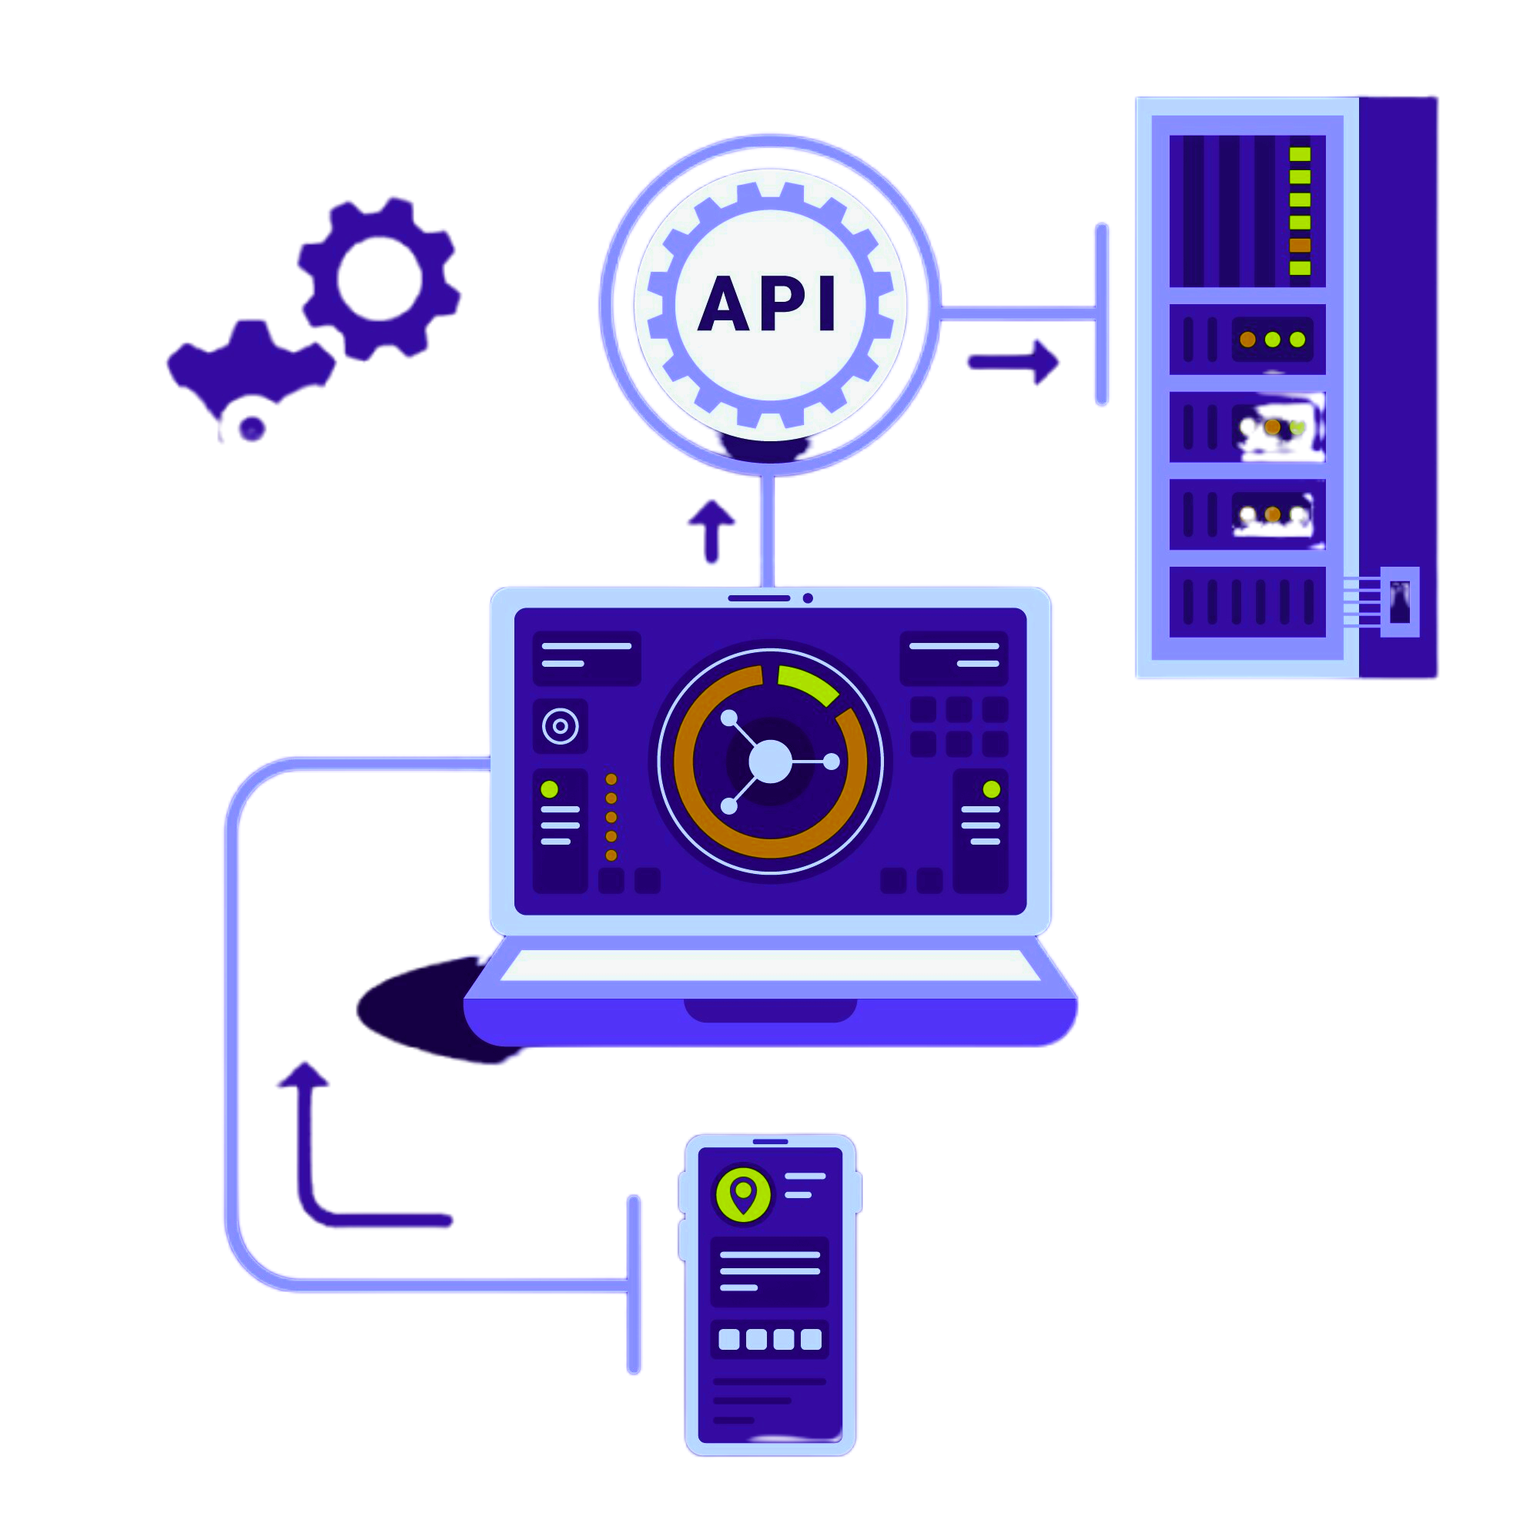
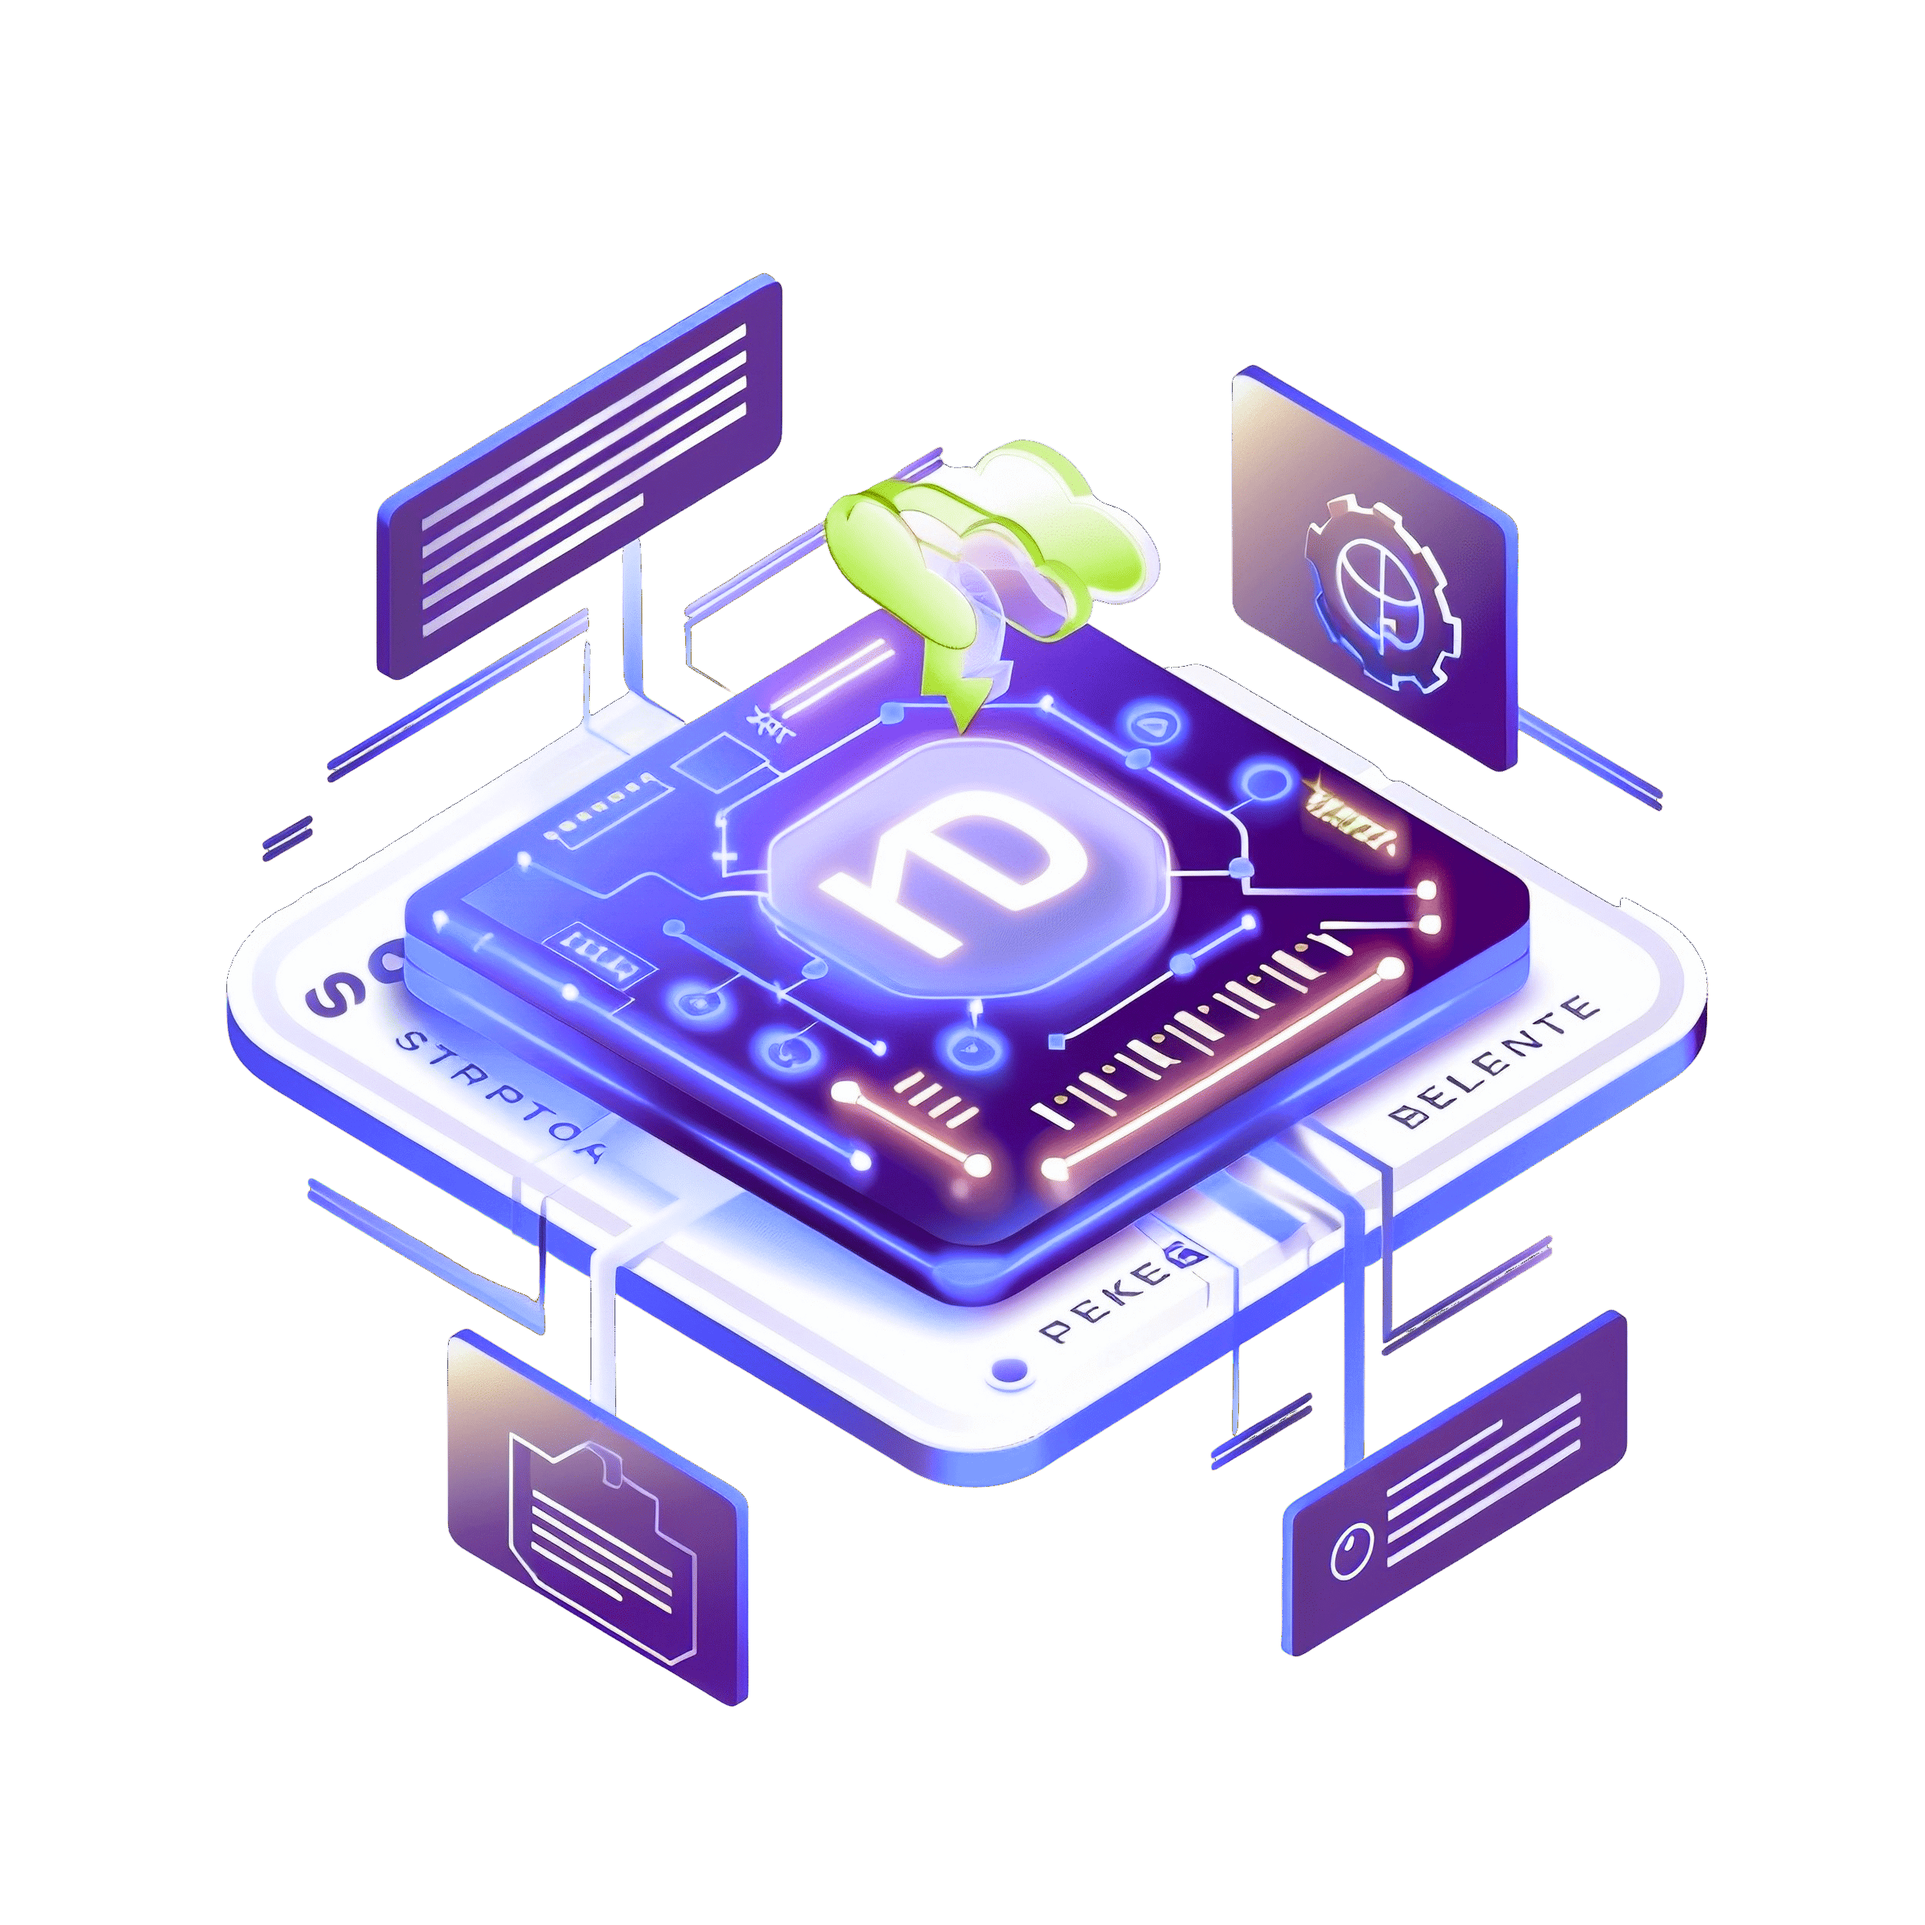
updated some of the roadmap imgs

diff --git a/src/assets/index.js b/src/assets/index.js
@@ -33,7 +33,6 @@ import lines from "./pricing/lines.svg";
 import stars from "./pricing/stars.svg";
 
 import done from "./roadmap/done.svg";
-import undone from "./roadmap/undone.svg";
 
 import notification2 from "./notification/image-2.jpg";
 import notification3 from "./notification/image-3.jpg";
@@ -63,7 +62,7 @@ import hero4 from './hero/hero4.png';
 
 
 import apiImage from './roadmap/api.png';
-import gamingImage from './roadmap/gaming.png';
+import gamingImage from './roadmap/game.png';
 import userImage from './roadmap/user.png';
 import voiceImage from './roadmap/voice.png';
 
@@ -148,7 +147,6 @@ export {
   lines,
   stars,
   done,
-  undone,
   benefitCard1,
   benefitCard2,
   benefitCard3,
